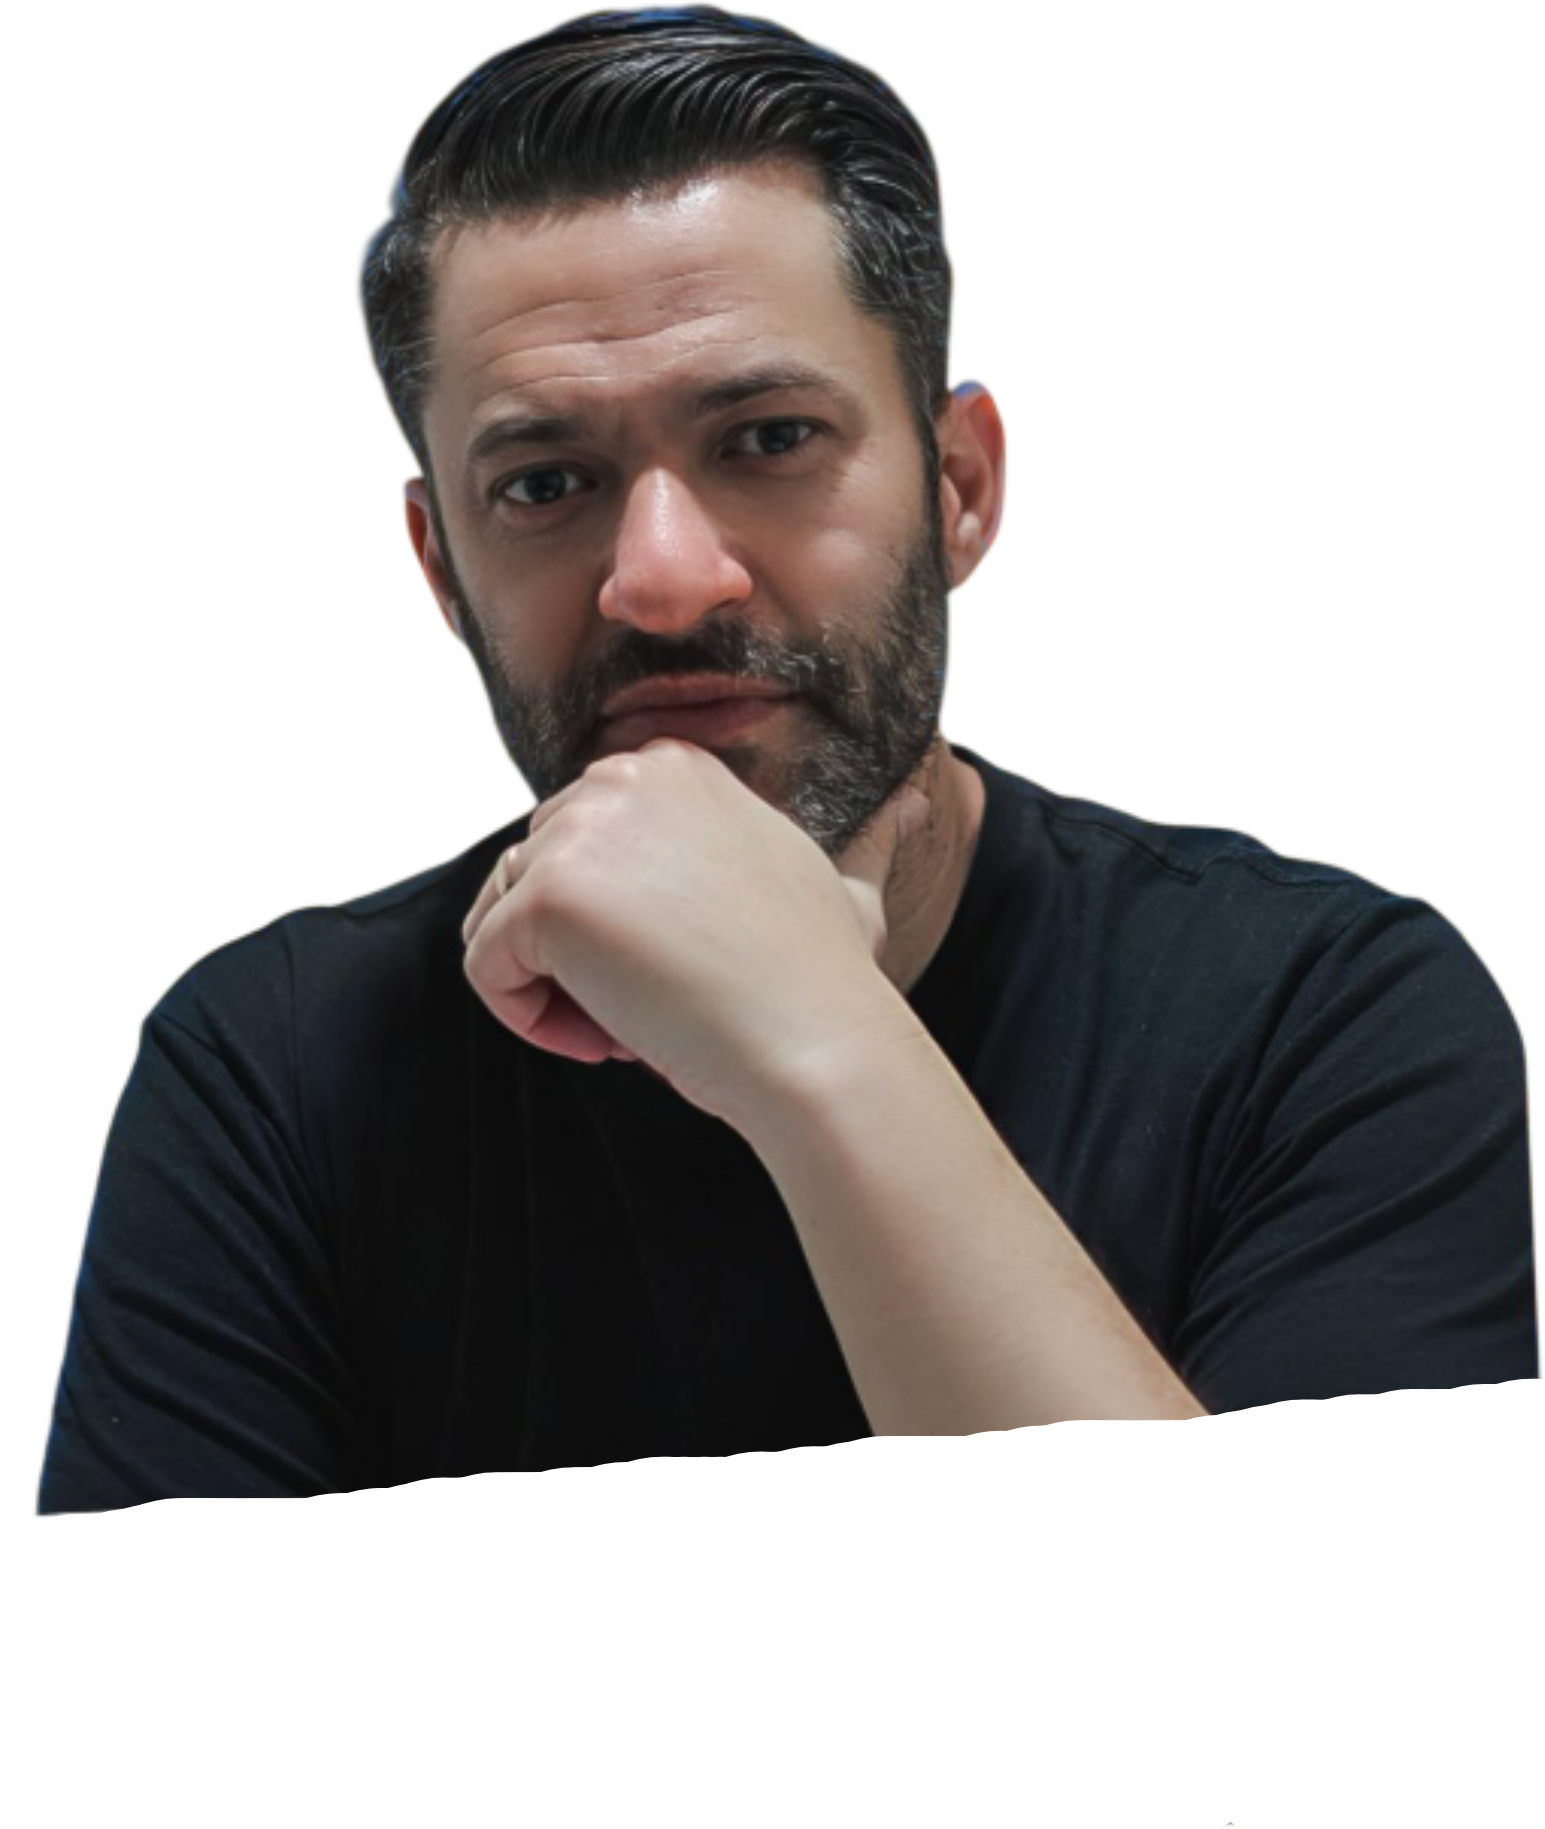
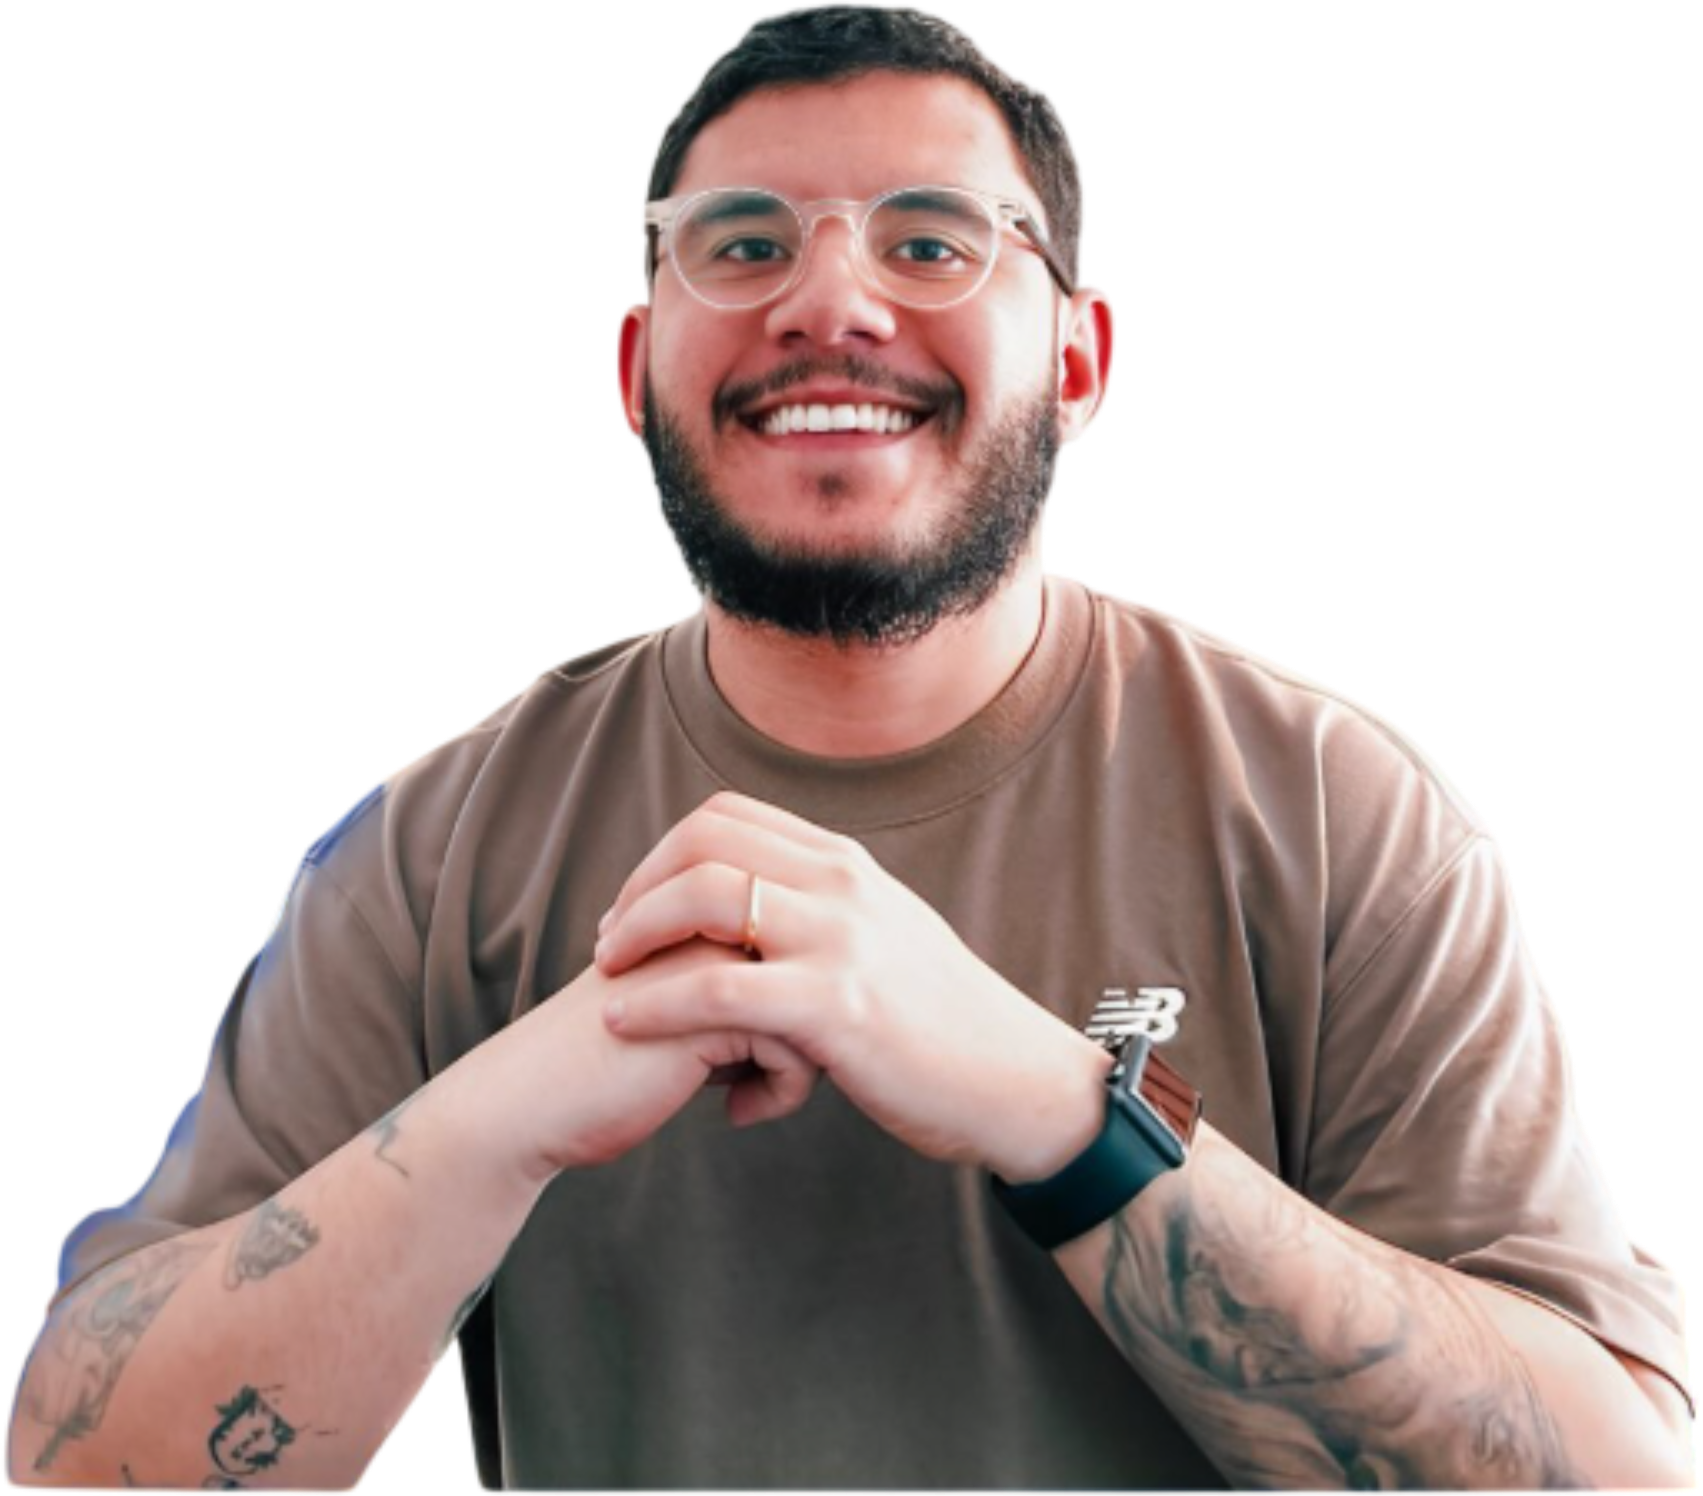
feat: só foto do Daniel à esquerda na seção Founders

diff --git a/app/components/Founders.tsx b/app/components/Founders.tsx
@@ -34,26 +34,17 @@ export default function Founders() {
               <span style={{ color: "var(--cyan-light)" }}>a história real do Instituto</span>
             </h2>
 
-            {/* Fotos dos founders */}
-            <div style={{ display: "flex", gap: "1.5rem", marginTop: "2rem", justifyContent: "center", alignItems: "flex-end" }}>
-              {[
-                { src: "/sostenes.png", name: "Sostenes", role: "Co-fundador & Mentor" },
-                { src: "/daniel.png",   name: "Daniel",   role: "Co-fundador & Instrutor" },
-              ].map(({ src, name, role }) => (
-                <div key={name} style={{ display: "flex", flexDirection: "column", alignItems: "center", gap: 10, flex: 1, maxWidth: 220 }}>
-                  <div style={{
-                    width: "100%", borderRadius: 16, overflow: "hidden",
-                    border: "1px solid var(--border)",
-                    background: "linear-gradient(135deg, rgba(6,182,212,0.08), var(--card))",
-                  }}>
-                    <img src={src} alt={name} style={{ width: "100%", height: "auto", display: "block" }} />
-                  </div>
-                  <div style={{ textAlign: "center" }}>
-                    <div style={{ fontFamily: "'Barlow Condensed', sans-serif", fontSize: 18, fontWeight: 800, color: "var(--text-1)" }}>{name}</div>
-                    <div style={{ fontSize: 12, color: "var(--text-3)" }}>{role}</div>
-                  </div>
+            {/* Foto do Daniel */}
+            <div style={{ display: "flex", gap: "1.5rem", marginTop: "2rem", justifyContent: "flex-start", alignItems: "flex-end" }}>
+              <div style={{ display: "flex", flexDirection: "column", alignItems: "center", gap: 10, maxWidth: 220 }}>
+                <div style={{ width: "100%", borderRadius: 16, overflow: "hidden", border: "1px solid var(--border)", background: "linear-gradient(135deg, rgba(6,182,212,0.08), var(--card))" }}>
+                  <img src="/daniel.png" alt="Daniel" style={{ width: "100%", height: "auto", display: "block" }} />
                 </div>
-              ))}
+                <div style={{ textAlign: "center" }}>
+                  <div style={{ fontFamily: "'Barlow Condensed', sans-serif", fontSize: 18, fontWeight: 800, color: "var(--text-1)" }}>Daniel</div>
+                  <div style={{ fontSize: 12, color: "var(--text-3)" }}>Co-fundador & Instrutor</div>
+                </div>
+              </div>
             </div>
           </div>
 